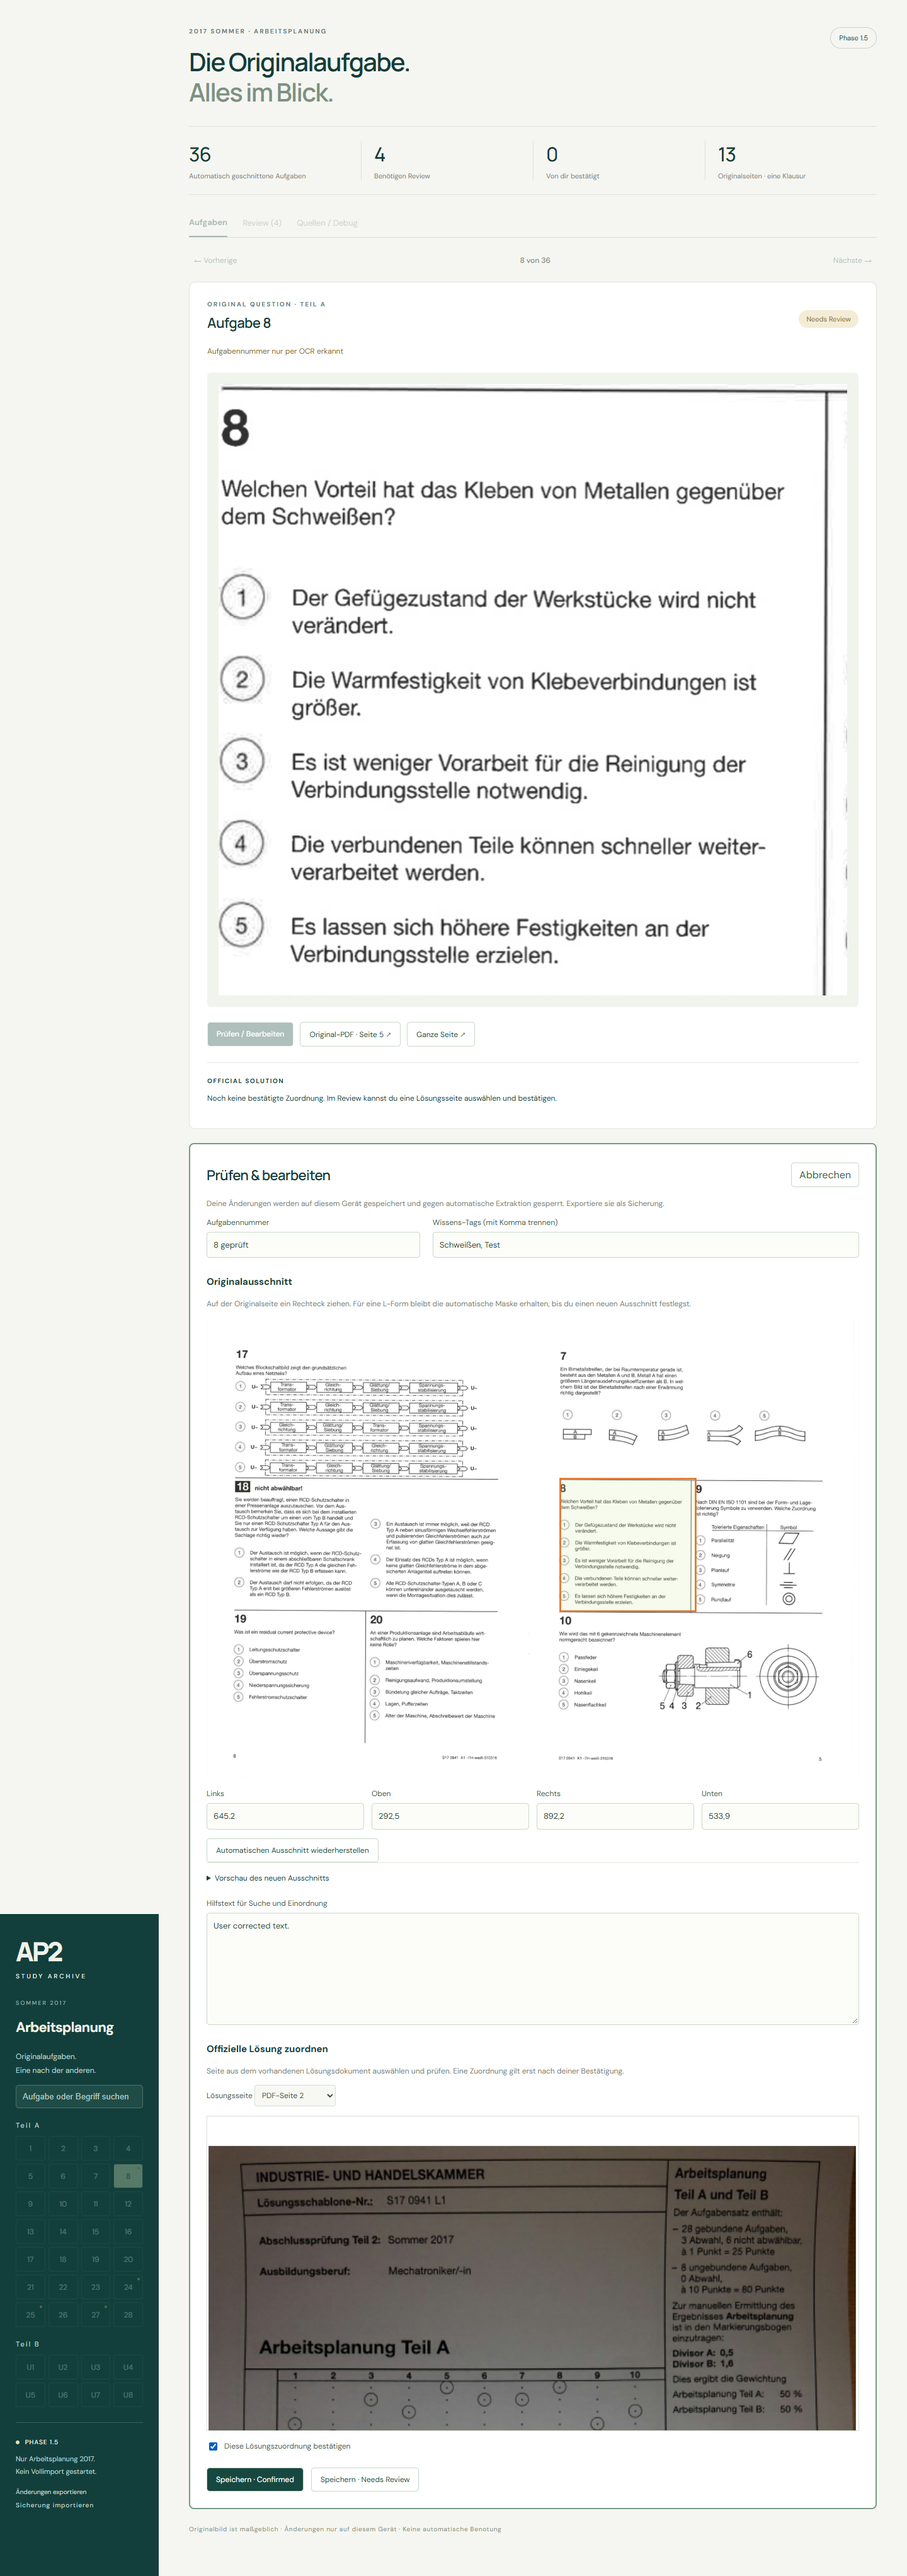
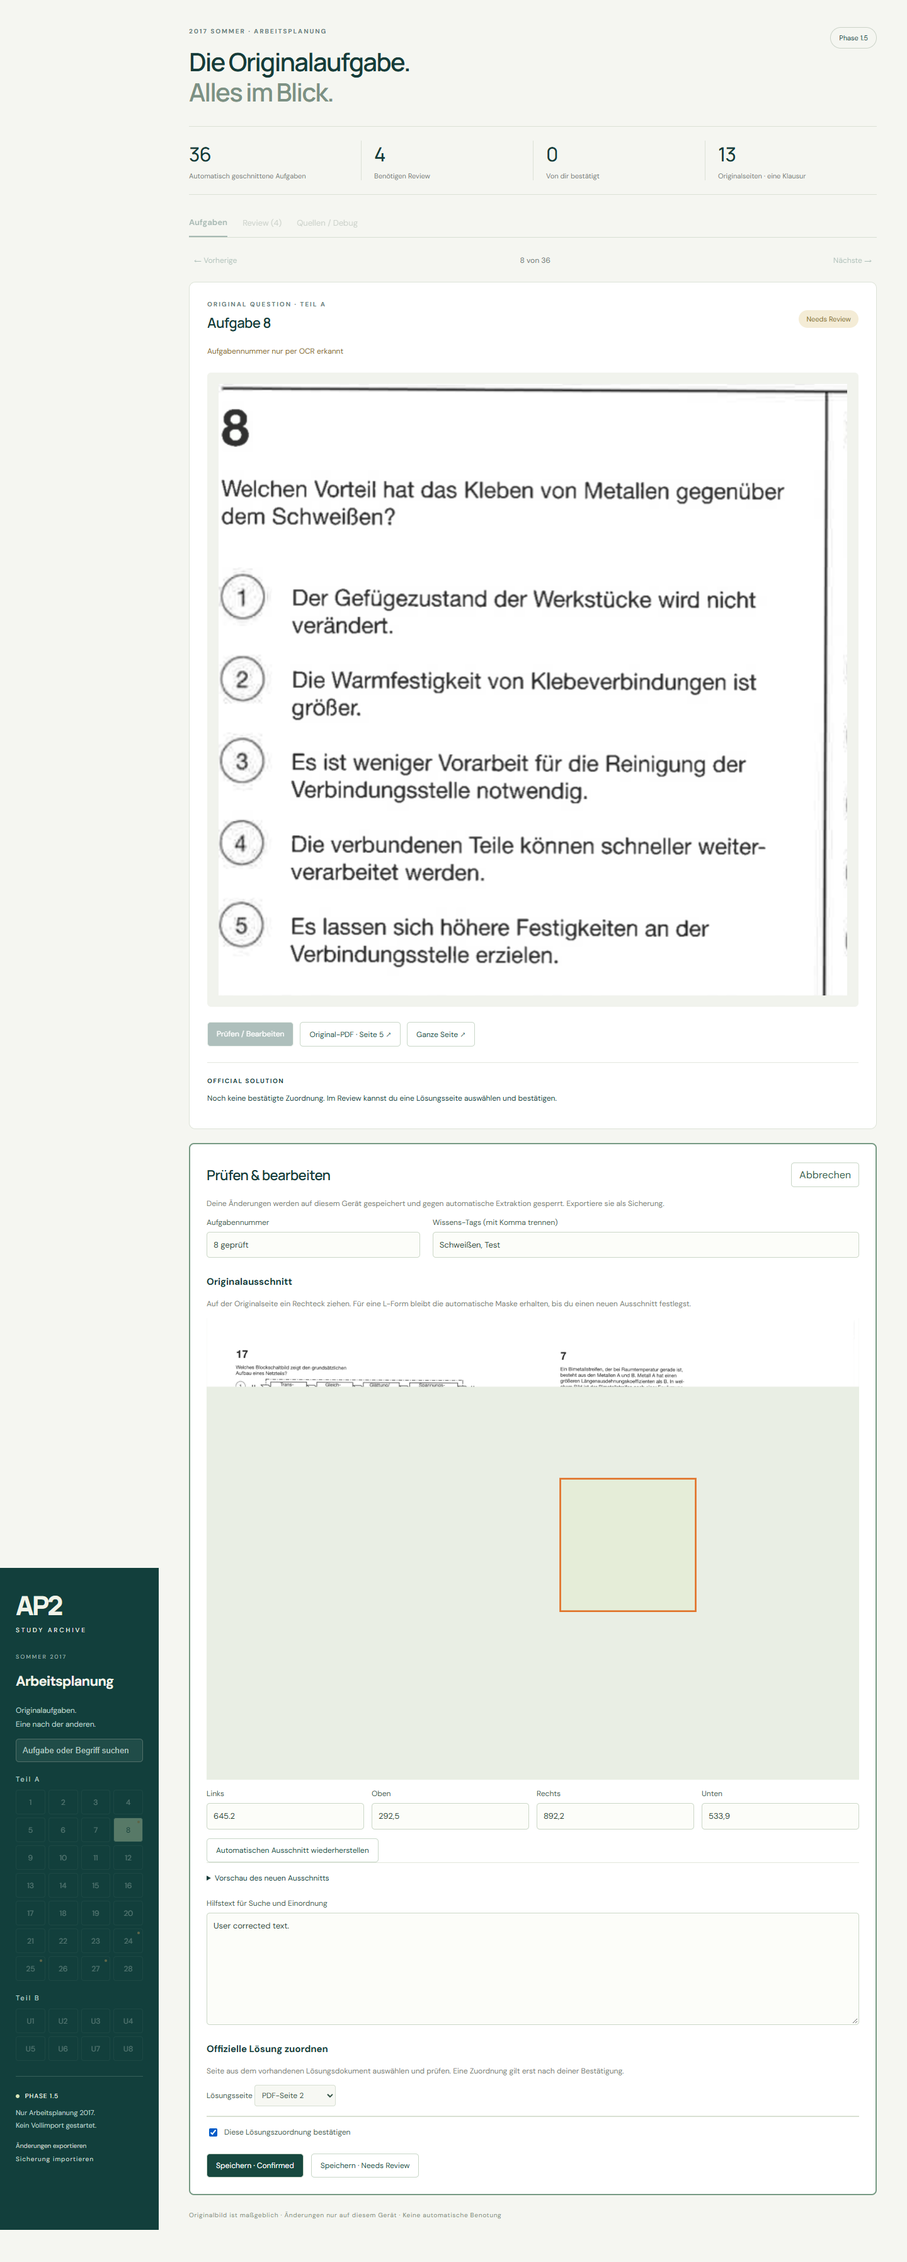
Record Phase 1.5 live acceptance evidence and stop

diff --git a/docs/PHASE_1_5_PLAN.md b/docs/PHASE_1_5_PLAN.md
@@ -20,4 +20,4 @@ Verification:
 
 Progress: initial layout inspection found imposed two-page spreads with printed question separators, 28 multiple-choice questions and 8 U questions indicated by the source instructions. Counts must be validated against extracted labels, not synthesized.
 
-Completed: coordinate segmentation, 36/36 coverage, 4-item review queue, image-first UI, persistent edits, backup, versioned resume, 12 Python tests and 2 storage tests, browser acceptance. Independent review findings fixed with regression tests. Pending: deploy and verify live, then stop.
+Completed: coordinate segmentation, 36/36 coverage, 4-item review queue, image-first UI, persistent edits, backup, versioned resume, 12 Python tests and 2 storage tests, browser acceptance. Independent review findings fixed with regression tests. Deployment and live browser verification passed. STOPPED; awaiting user acceptance.

diff --git a/docs/PHASE_1_5_REPORT.md b/docs/PHASE_1_5_REPORT.md
@@ -65,3 +65,11 @@ python scripts/validate_segmentation.py
 6. 官方答案的精细逐题/子题关联和评分没有自动确认；目前可人工选择并确认答案出处页。
 
 **停止条件：本阶段交付后停止，等待用户验收；禁止全量导入或其他年份处理。**
+
+## 线上交付
+
+网站：https://neroclaud2015.github.io/AP2/?v=1.5.3
+
+实现提交：`1bb94c1`。Pages 构建和部署成功：https://github.com/neroclaud2015/AP2/actions/runs/36255076234 。CI 成功：https://github.com/neroclaud2015/AP2/actions/runs/36255056598 。
+
+线上浏览器完整验收通过，包含36张裁剪、四项Review队列、编辑/裁剪/答案确认、刷新持久化、导入导出、手机布局。测试使用临时浏览器上下文，不改动用户真实浏览器的Review记录。最终工作已停止，等待验收。
